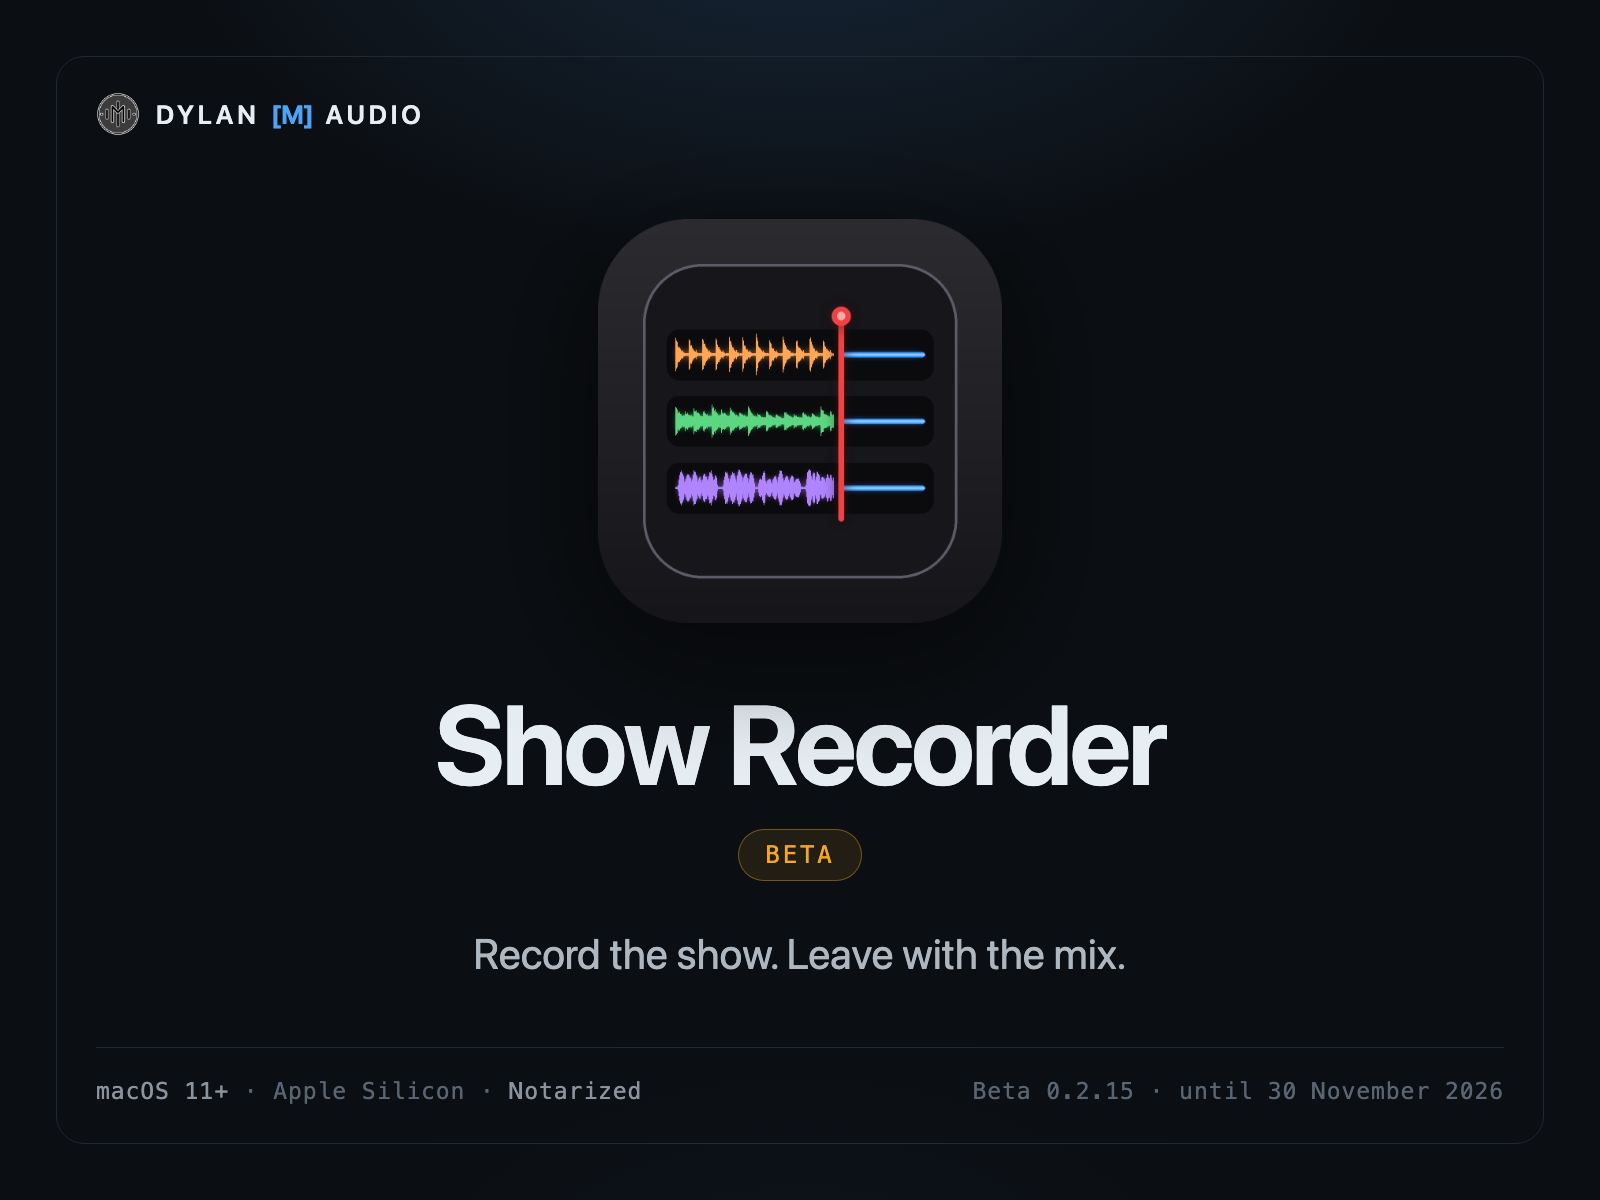
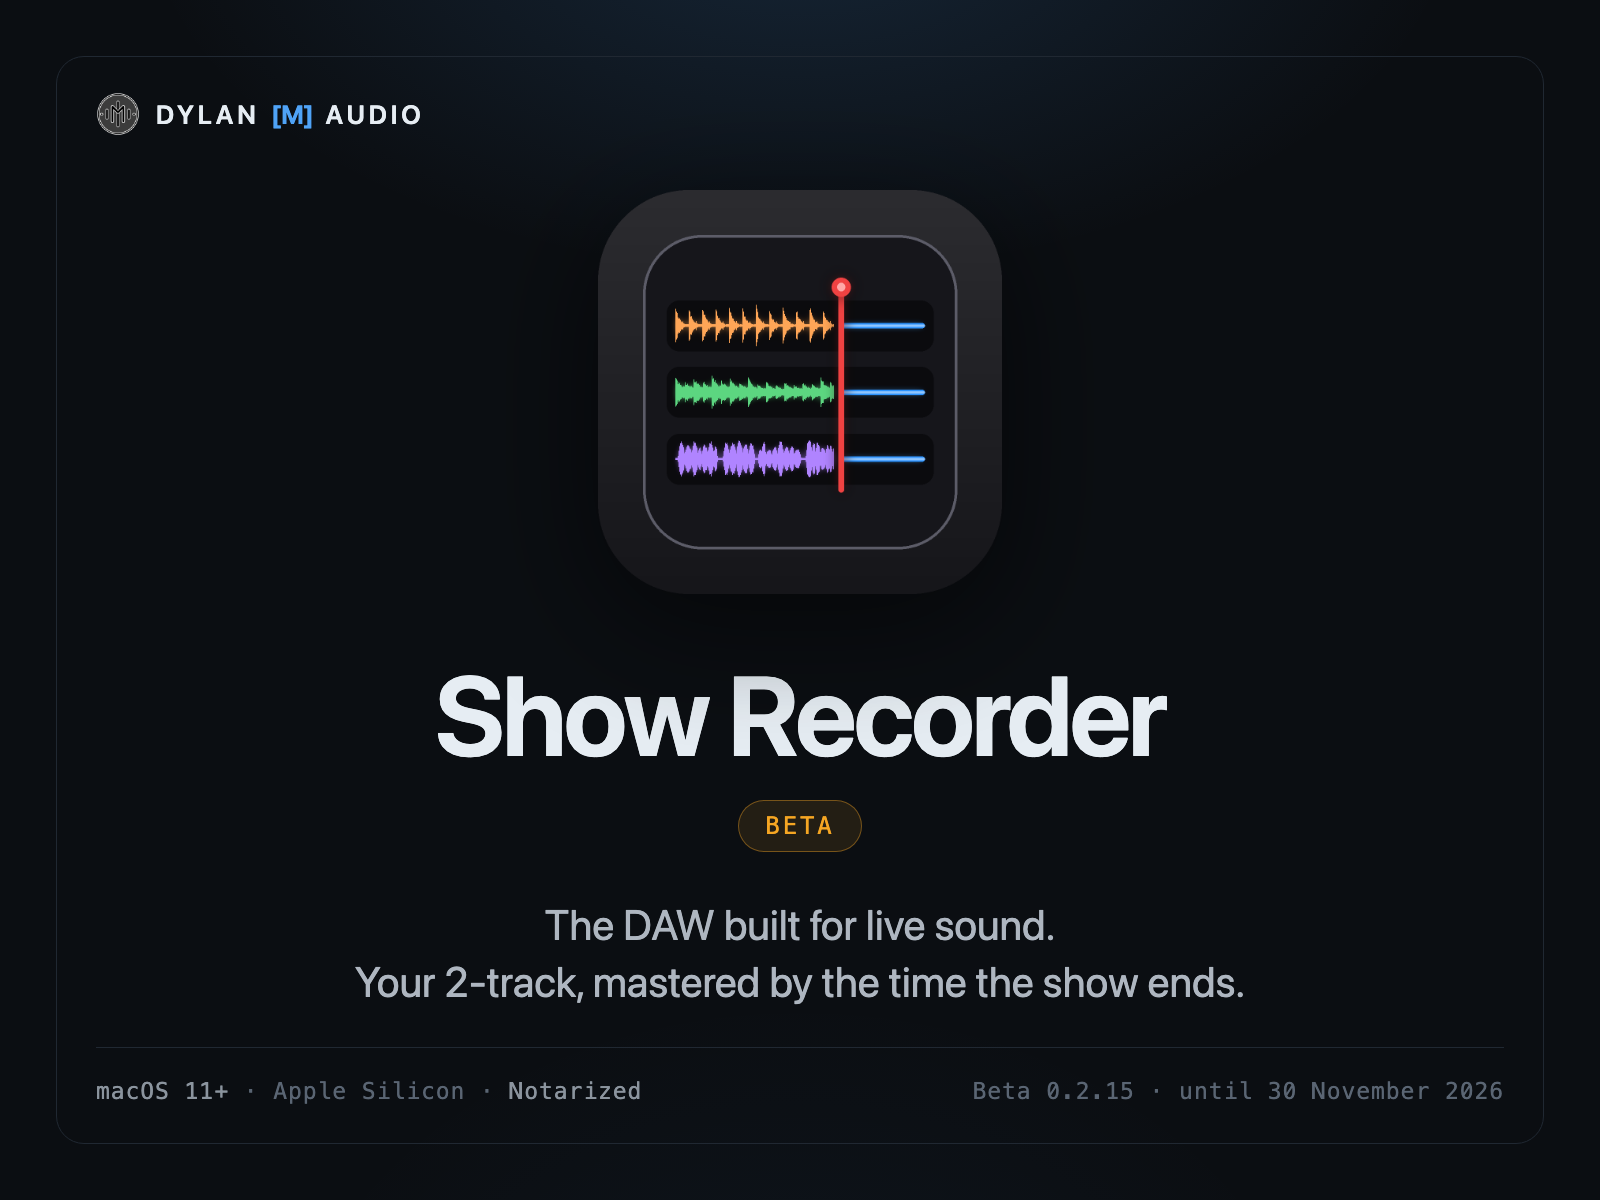
/sr-beta: Show Recorder's new headline, on the page and its hero (operator, 7 Nov)
"The DAW built for live sound. Your 2-track, mastered by the time the show
ends." replaces "Record the show. Leave with the mix." The hero is
re-rendered by the marketing repo's build_store_heroes.py.

Changed region(s): [[0.2188, 0.555, 0.7812, 0.8325], [0.375, 0.1542, 0.625, 0.4625], [0.5625, 0.4317, 0.5938, 0.4625]]

diff --git a/sr-beta/index.html b/sr-beta/index.html
@@ -224,7 +224,7 @@
         <div class="p-badges"><span class="tag">Beta &middot; 0.2.15</span></div>
       </div>
     </div>
-    <p class="p-tagline">Record the show. Leave with the mix. Free to try until 30 November 2026.</p>
+    <p class="p-tagline">The DAW built for live sound. Your 2-track, mastered by the time the show ends. Free to try until 30 November 2026.</p>
     <div class="p-cta-row"><a href="https://store.dylanmaudio.com/checkout/buy/acb6ee1d-a737-499e-9ff8-6f5dcaccad4f" target="_blank" rel="noopener" class="btn btn-primary">Download the beta &mdash; free <span class="arw">&rarr;</span></a><a href="/guides/show-recorder-quick-reference.pdf" class="btn btn-ghost" target="_blank" rel="noopener">Quick Reference (PDF) &#8599;</a><a href="/guides/show-recorder-reference-manual.pdf" class="btn btn-ghost" target="_blank" rel="noopener">Reference Manual (PDF) &#8599;</a><a href="https://discord.gg/zBkPrFhzPQ" class="btn btn-discord" target="_blank" rel="noopener"><svg viewBox="0 0 24 24" width="18" height="18" fill="currentColor" aria-hidden="true"><path d="M20.317 4.369A19.79 19.79 0 0 0 15.885 3c-.21.375-.45.882-.617 1.283a18.27 18.27 0 0 0-5.535 0A12.6 12.6 0 0 0 9.11 3 19.74 19.74 0 0 0 4.677 4.37C1.9 8.48 1.14 12.49 1.52 16.44a19.9 19.9 0 0 0 6.05 3.06c.49-.67.925-1.38 1.3-2.13-.716-.27-1.4-.605-2.045-.998.171-.126.34-.257.5-.39a14.2 14.2 0 0 0 12.35 0c.163.14.332.27.5.39-.646.394-1.333.728-2.048.998.375.75.81 1.46 1.3 2.13a19.87 19.87 0 0 0 6.053-3.06c.447-4.58-.766-8.55-3.212-12.07ZM8.02 14.01c-1.183 0-2.157-1.085-2.157-2.42 0-1.336.955-2.42 2.157-2.42 1.21 0 2.176 1.094 2.157 2.42 0 1.335-.955 2.42-2.157 2.42Zm7.96 0c-1.182 0-2.156-1.085-2.156-2.42 0-1.336.955-2.42 2.157-2.42 1.21 0 2.176 1.094 2.157 2.42 0 1.335-.946 2.42-2.157 2.42Z"/></svg> Beta feedback</a></div>
     <p class="beta-note">The download is a free checkout on the store: the links come by email, and <b>Check for
       Updates</b> in the app tells you when a new beta is out. For the console features &mdash; names, colours

diff --git a/build/build_sr_beta.py b/build/build_sr_beta.py
@@ -41,7 +41,7 @@ FEEDBACK = "mailto:dylan@dylanmaudio.com?subject=Show%20Recorder%20beta"
 MANUAL = "/guides/show-recorder-reference-manual.pdf"
 QUICK_REF = "/guides/show-recorder-quick-reference.pdf"
 
-TAGLINE = "Record the show. Leave with the mix."
+TAGLINE = "The DAW built for live sound. Your 2-track, mastered by the time the show ends."   # locked in 7 Nov 2026
 LEAD = ("Multitrack recording for live shows, built for FOH. Record every channel from any console, play it back "
         "for a virtual soundcheck, and leave the gig with a finished stereo mix and stems, mixed and mastered "
         "inside the app.")
